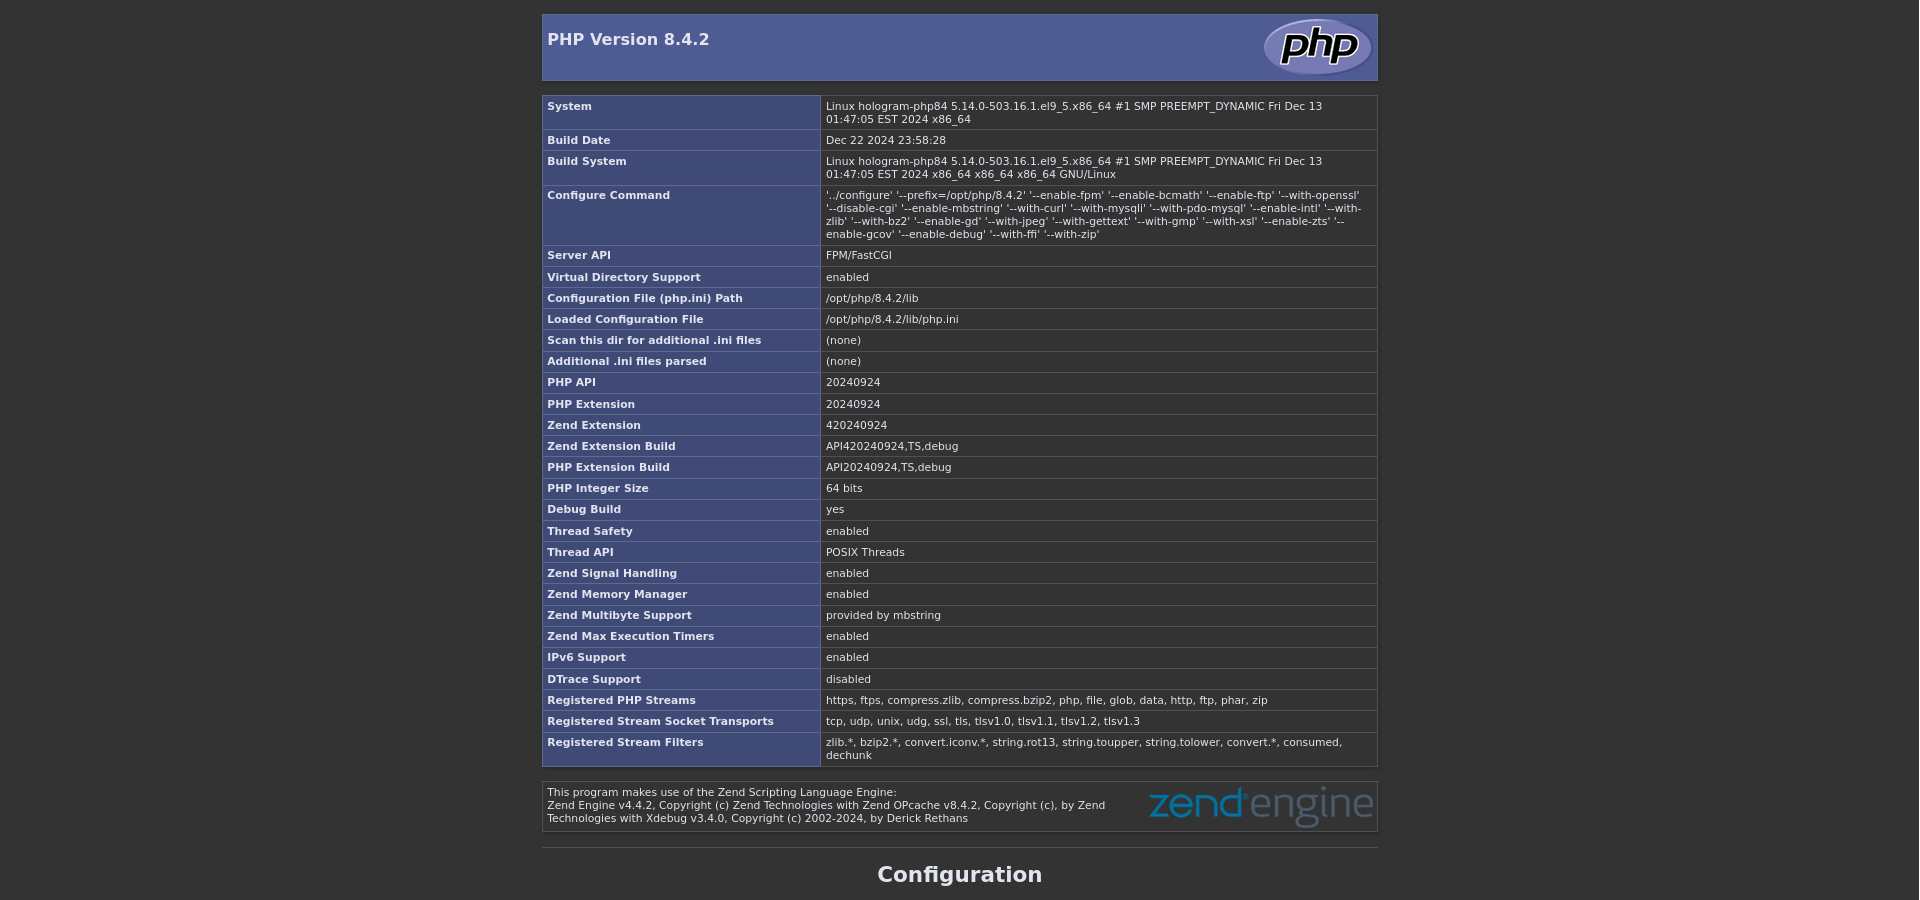
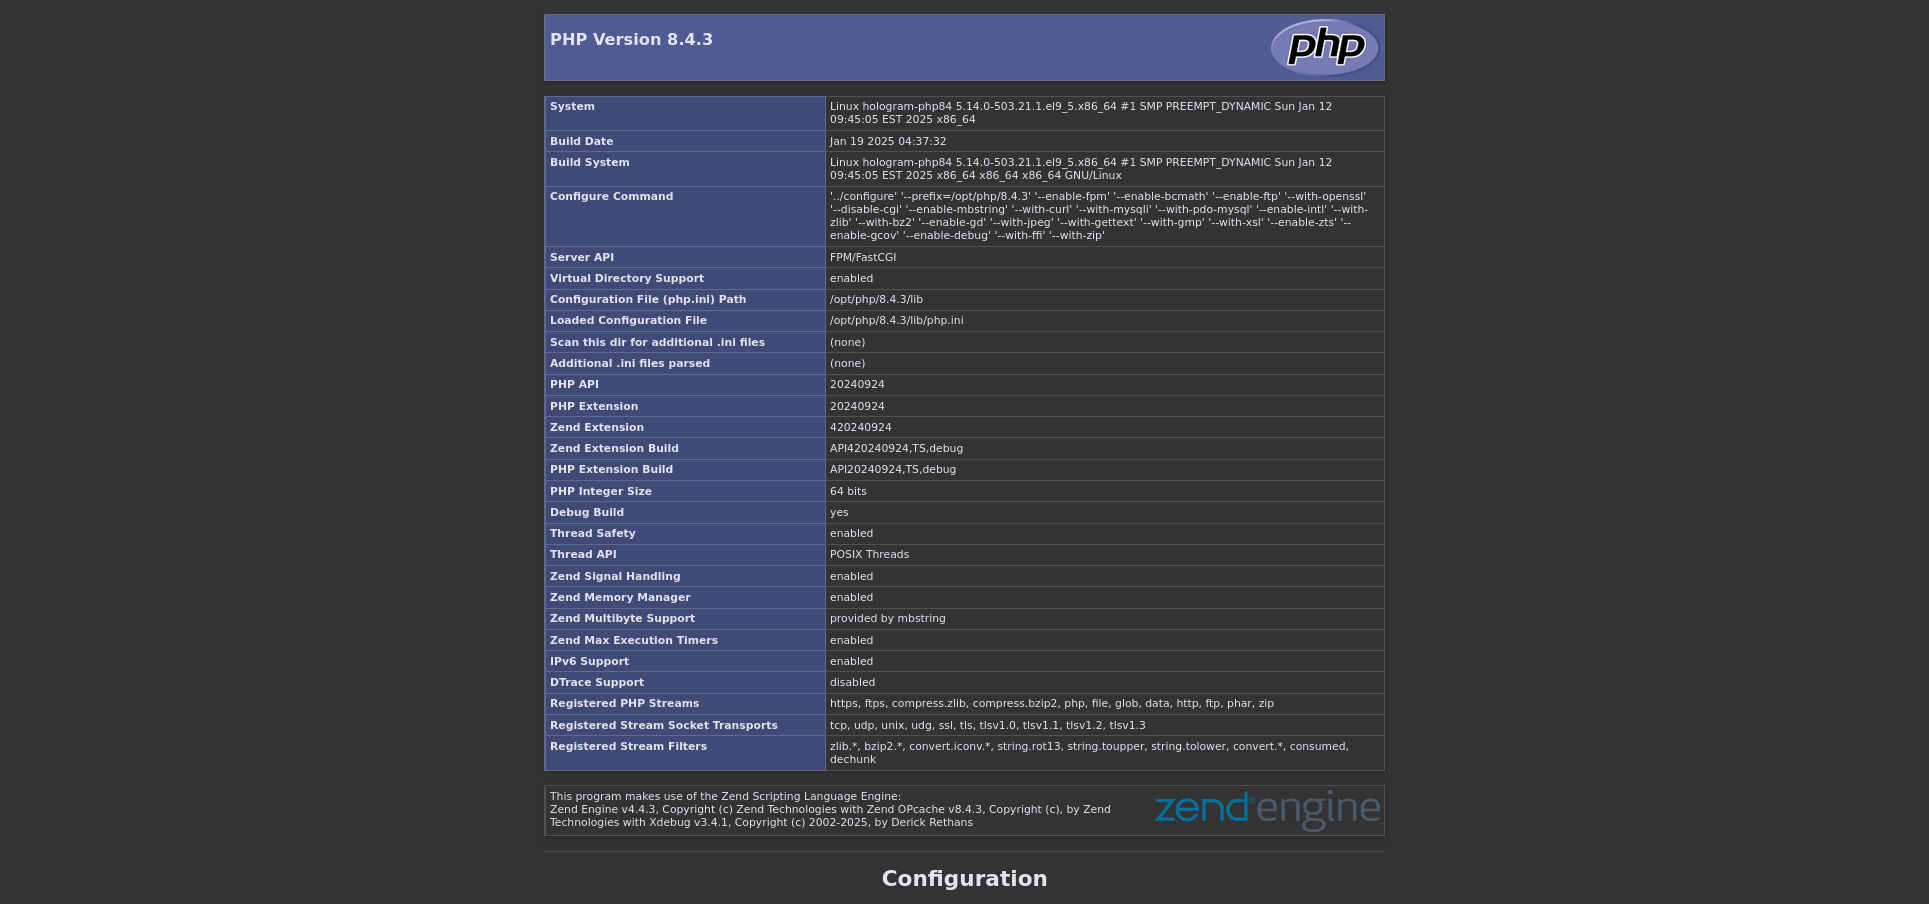
updated

diff --git a/environments/hologram-php84/6_PHP_SETUP.md b/environments/hologram-php84/6_PHP_SETUP.md
@@ -1,8 +1,8 @@
-# Apache 2 and PHP 8.4.2
+# Apache 2 and PHP 8.4.3
 
 Below we will explain the steps necessary to ensure that the Apache 2 web server uses PHP-FPM (FastCGI Process Manager) compiled from sources.
 
-## download PHP 8.4.2
+## download PHP 8.4.3
 
 ```bash
 cd ~
@@ -12,26 +12,26 @@ mkdir php && cd php
 First I can check the existence of the archive:
 
 ```bash
-wget --spider --https-only https://www.php.net/distributions/php-8.4.2.tar.xz
+wget --spider --https-only https://www.php.net/distributions/php-8.4.3.tar.xz
 ```
 
 After that I can download the archive containing the sources:
 
 ```bash
-wget --https-only https://www.php.net/distributions/php-8.4.2.tar.xz
+wget --https-only https://www.php.net/distributions/php-8.4.3.tar.xz
 ls -l
-sha256sum php-8.4.2.tar.xz
-tar -xf php-8.4.2.tar.xz
+sha256sum php-8.4.3.tar.xz
+tar -xf php-8.4.3.tar.xz
 ls -l
-cd php-8.4.2/
+cd php-8.4.3/
 ```
 
-## settings and compilation from PHP version 8.4.2 sources.
+## settings and compilation from PHP version 8.4.3 sources.
 
 ```bash
 mkdir build_session && cd build_session
 ../configure --help | grep -i "opcache"
-../configure --prefix=/opt/php/8.4.2 --enable-fpm --enable-bcmath --enable-ftp --with-openssl --disable-cgi --enable-mbstring --with-curl --with-mysqli --with-pdo-mysql --enable-intl --with-zlib --with-bz2 --enable-gd --with-jpeg --with-gettext --with-gmp --with-xsl --enable-zts --enable-gcov --enable-debug --with-ffi --with-zip
+../configure --prefix=/opt/php/8.4.3 --enable-fpm --enable-bcmath --enable-ftp --with-openssl --disable-cgi --enable-mbstring --with-curl --with-mysqli --with-pdo-mysql --enable-intl --with-zlib --with-bz2 --enable-gd --with-jpeg --with-gettext --with-gmp --with-xsl --enable-zts --enable-gcov --enable-debug --with-ffi --with-zip
 make
 make test
 sudo make install
@@ -43,24 +43,24 @@ cd ~
 ```bash
 su -
 cd ~
-find /home/developer_username/php/php-8.4.2 -iname 'php.ini*'
-cp /home/developer_username/php/php-8.4.2/php.ini-development /opt/php/8.4.2/lib/php.ini
-sed -i 's/;date.timezone =/date.timezone = "Europe\/Rome"/g' /opt/php/8.4.2/lib/php.ini
-sed -i 's/;cgi.fix_pathinfo=1/cgi.fix_pathinfo=0/g' /opt/php/8.4.2/lib/php.ini
-sed -i 's/memory_limit = 128M/memory_limit = 256M/g' /opt/php/8.4.2/lib/php.ini
-grep -i "max_execution_time" /opt/php/8.4.2/lib/php.ini
-sed -i 's/max_execution_time = 30/max_execution_time = 100/g' /opt/php/8.4.2/lib/php.ini
-grep -i "upload_max_filesize" /opt/php/8.4.2/lib/php.ini
-sed -i 's/upload_max_filesize = 2M/upload_max_filesize = 8M/g' /opt/php/8.4.2/lib/php.ini
-cp /opt/php/8.4.2/etc/php-fpm.conf.default /opt/php/8.4.2/etc/php-fpm.conf
-sed -i 's/;pid = run\/php-fpm.pid/pid = run\/php-fpm.pid/g' /opt/php/8.4.2/etc/php-fpm.conf
+find /home/developer_username/php/php-8.4.3 -iname 'php.ini*'
+cp /home/developer_username/php/php-8.4.3/php.ini-development /opt/php/8.4.3/lib/php.ini
+sed -i 's/;date.timezone =/date.timezone = "Europe\/Rome"/g' /opt/php/8.4.3/lib/php.ini
+sed -i 's/;cgi.fix_pathinfo=1/cgi.fix_pathinfo=0/g' /opt/php/8.4.3/lib/php.ini
+sed -i 's/memory_limit = 128M/memory_limit = 256M/g' /opt/php/8.4.3/lib/php.ini
+grep -i "max_execution_time" /opt/php/8.4.3/lib/php.ini
+sed -i 's/max_execution_time = 30/max_execution_time = 100/g' /opt/php/8.4.3/lib/php.ini
+grep -i "upload_max_filesize" /opt/php/8.4.3/lib/php.ini
+sed -i 's/upload_max_filesize = 2M/upload_max_filesize = 8M/g' /opt/php/8.4.3/lib/php.ini
+cp /opt/php/8.4.3/etc/php-fpm.conf.default /opt/php/8.4.3/etc/php-fpm.conf
+sed -i 's/;pid = run\/php-fpm.pid/pid = run\/php-fpm.pid/g' /opt/php/8.4.3/etc/php-fpm.conf
 ```
 
 Optionally I prefer to set the language option `short_open_tag` to `On`:
 
 ```bash
-grep -i "short_open_tag = Off" /opt/php/8.4.2/lib/php.ini
-sed -i 's/short_open_tag = Off/short_open_tag = On/g' /opt/php/8.4.2/lib/php.ini
+grep -i "short_open_tag = Off" /opt/php/8.4.3/lib/php.ini
+sed -i 's/short_open_tag = Off/short_open_tag = On/g' /opt/php/8.4.3/lib/php.ini
 ```
 
 ## check of privileged and system user identifiers
@@ -72,10 +72,10 @@ cat /etc/passwd | grep 'apache'
 
 Obviously the `timezone` must be set in the most appropriate way because it depends on where the server is located.
 
-At the end of the `/opt/php/8.4.2/etc/php-fpm.conf` file
+At the end of the `/opt/php/8.4.3/etc/php-fpm.conf` file
 
 ```bash
-nano /opt/php/8.4.2/etc/php-fpm.conf
+nano /opt/php/8.4.3/etc/php-fpm.conf
 ```
 
 add the following lines:
@@ -89,15 +89,15 @@ group = apache
 But it is better to modify with sed and then check the result:
 
 ```bash
-sed -i '$auser = apache' /opt/php/8.4.2/etc/php-fpm.conf
-sed -i '$agroup = apache' /opt/php/8.4.2/etc/php-fpm.conf
-tail /opt/php/8.4.2/etc/php-fpm.conf
+sed -i '$auser = apache' /opt/php/8.4.3/etc/php-fpm.conf
+sed -i '$agroup = apache' /opt/php/8.4.3/etc/php-fpm.conf
+tail /opt/php/8.4.3/etc/php-fpm.conf
 ```
 
 Now copy `www.conf`:
 
 ```bash
-cp /opt/php/8.4.2/etc/php-fpm.d/www.conf.default /opt/php/8.4.2/etc/php-fpm.d/www.conf
+cp /opt/php/8.4.3/etc/php-fpm.d/www.conf.default /opt/php/8.4.3/etc/php-fpm.d/www.conf
 ls -al /usr/lib/systemd/system/ | grep -i "php-fpm.service"
 ```
 
@@ -109,13 +109,13 @@ nano /usr/lib/systemd/system/php-fpm.service
 
 ```text
 [Unit]
-Description=PHP 8.4.2 FastCGI Process Manager
+Description=PHP 8.4.3 FastCGI Process Manager
 After=network.target
 
 [Service]
 Type=simple
-PIDFile=/opt/php/8.4.2/var/run/php-fpm.pid
-ExecStart=/opt/php/8.4.2/sbin/php-fpm --nodaemonize --fpm-config /opt/php/8.4.2/etc/php-fpm.conf
+PIDFile=/opt/php/8.4.3/var/run/php-fpm.pid
+ExecStart=/opt/php/8.4.3/sbin/php-fpm --nodaemonize --fpm-config /opt/php/8.4.3/etc/php-fpm.conf
 ExecReload=/bin/kill -USR2 $MAINPID
 
 [Install]
@@ -125,14 +125,14 @@ WantedBy=multi-user.target
 Or better yet, if the file just needs modifications:
 
 ```bash
-sed -i 's/8.4.1/8.4.2/g' /usr/lib/systemd/system/php-fpm.service
+sed -i 's/8.4.2/8.4.3/g' /usr/lib/systemd/system/php-fpm.service
 ```
 
 Enable Zend OPcache:
 
 ```bash
-grep -i "zend_extension" /opt/php/8.4.2/lib/php.ini
-sed -i 's/;zend_extension=opcache/zend_extension=opcache.so/g' /opt/php/8.4.2/lib/php.ini
+grep -i "zend_extension" /opt/php/8.4.3/lib/php.ini
+sed -i 's/;zend_extension=opcache/zend_extension=opcache.so/g' /opt/php/8.4.3/lib/php.ini
 ```
 
 ## now I try to start the newly created service:
@@ -165,7 +165,7 @@ During the next step, I have to be very careful.
 I change the module's listening mode from socket TCP to socket UNIX:
 
 ```bash
-nano /opt/php/8.4.2/etc/php-fpm.d/www.conf
+nano /opt/php/8.4.3/etc/php-fpm.d/www.conf
 ```
 
 ```text
@@ -179,9 +179,9 @@ listen = 127.0.0.1:9000
 Similar to what was done before, it is better to modify with `sed` and then check the result:
 
 ```bash
-sed -i 's/^user = nobody/user = apache/g' /opt/php/8.4.2/etc/php-fpm.d/www.conf
-sed -i 's/^group = nobody/group = apache/g' /opt/php/8.4.2/etc/php-fpm.d/www.conf
-grep -i "listen = 127.0.0.1:9000" /opt/php/8.4.2/etc/php-fpm.d/www.conf
+sed -i 's/^user = nobody/user = apache/g' /opt/php/8.4.3/etc/php-fpm.d/www.conf
+sed -i 's/^group = nobody/group = apache/g' /opt/php/8.4.3/etc/php-fpm.d/www.conf
+grep -i "listen = 127.0.0.1:9000" /opt/php/8.4.3/etc/php-fpm.d/www.conf
 ```
 
 ## match FPM with Apache

diff --git a/environments/hologram-php84/7_XDEBUG_SETUP.md b/environments/hologram-php84/7_XDEBUG_SETUP.md
@@ -23,10 +23,10 @@ rm --force /usr/bin/php-config
 Otherwise, if this is the first installation from sources, we immediately move on to the following instructions:
 
 ```bash
-ln --symbolic --verbose /opt/php/8.4.2/bin/php /usr/bin/php
-ln --symbolic --verbose /opt/php/8.4.2/bin/phar.phar /usr/bin/phar
-ln --symbolic --verbose /opt/php/8.4.2/bin/phpize /usr/bin/phpize
-ln --symbolic --verbose /opt/php/8.4.2/bin/php-config /usr/bin/php-config
+ln --symbolic --verbose /opt/php/8.4.3/bin/php /usr/bin/php
+ln --symbolic --verbose /opt/php/8.4.3/bin/phar.phar /usr/bin/phar
+ln --symbolic --verbose /opt/php/8.4.3/bin/phpize /usr/bin/phpize
+ln --symbolic --verbose /opt/php/8.4.3/bin/php-config /usr/bin/php-config
 ```
 
 ## install Xdebug from source
@@ -35,12 +35,12 @@ Be sure to replace the real link of the version you prefer.
 
 ```bash
 mkdir xdebug && cd xdebug
-wget --spider --https-only https://xdebug.org/files/xdebug-3.4.0.tgz
-wget --https-only https://xdebug.org/files/xdebug-3.4.0.tgz
-sha256sum xdebug-3.4.0.tgz
-tar -xvzf xdebug-3.4.0.tgz
+wget --spider --https-only https://xdebug.org/files/xdebug-3.4.1.tgz
+wget --https-only https://xdebug.org/files/xdebug-3.4.1.tgz
+sha256sum xdebug-3.4.1.tgz
+tar -xzf xdebug-3.4.1.tgz
 ls -l
-cd xdebug-3.4.0/
+cd xdebug-3.4.1/
 phpize
 mkdir build_session_date && cd build_session_date
 ../configure --help
@@ -52,7 +52,7 @@ make install
 Instead, if it is a PHP version update:
 
 ```bash
-cd ~/xdebug/xdebug-3.4.0/
+cd ~/xdebug/xdebug-3.4.1/
 phpize
 mkdir build_session_update_n && cd build_session_update_n
 ../configure --help
@@ -67,14 +67,14 @@ make install
 php --ini
 updatedb
 locate xdebug.ini
-rnano /opt/php/8.4.2/lib/php.ini
+rnano /opt/php/8.4.3/lib/php.ini
 ```
 
 First it is a good idea to view the contents of the file without risking causing damage.
-And now I edit `/opt/php/8.4.2/lib/php.ini` configuration file
+And now I edit `/opt/php/8.4.3/lib/php.ini` configuration file
 
 ```bash
-nano /opt/php/8.4.2/lib/php.ini
+nano /opt/php/8.4.3/lib/php.ini
 ```
 
 I add this section:

diff --git a/environments/hologram-php84/0_NOTES.md b/environments/hologram-php84/0_NOTES.md
@@ -9,4 +9,8 @@ To improve the test environment, it is advisable to simulate the DNS using the `
 192.168.1.84  playground-php84.local        www.playground-php84.local
 192.168.1.84  landing-php84.local           www.landing-php84.local
 192.168.1.84  remark-php84.local            www.remark-php84.local
+192.168.1.84  recode-php84.local            www.recode-php84.local
+192.168.1.84  thesis-php84.local            www.thesis-php84.local
+192.168.1.84  posts-php84.local             www.posts-php84.local
+192.168.1.84  catenaria-php84.local         www.catenaria-php84.local
 ```
